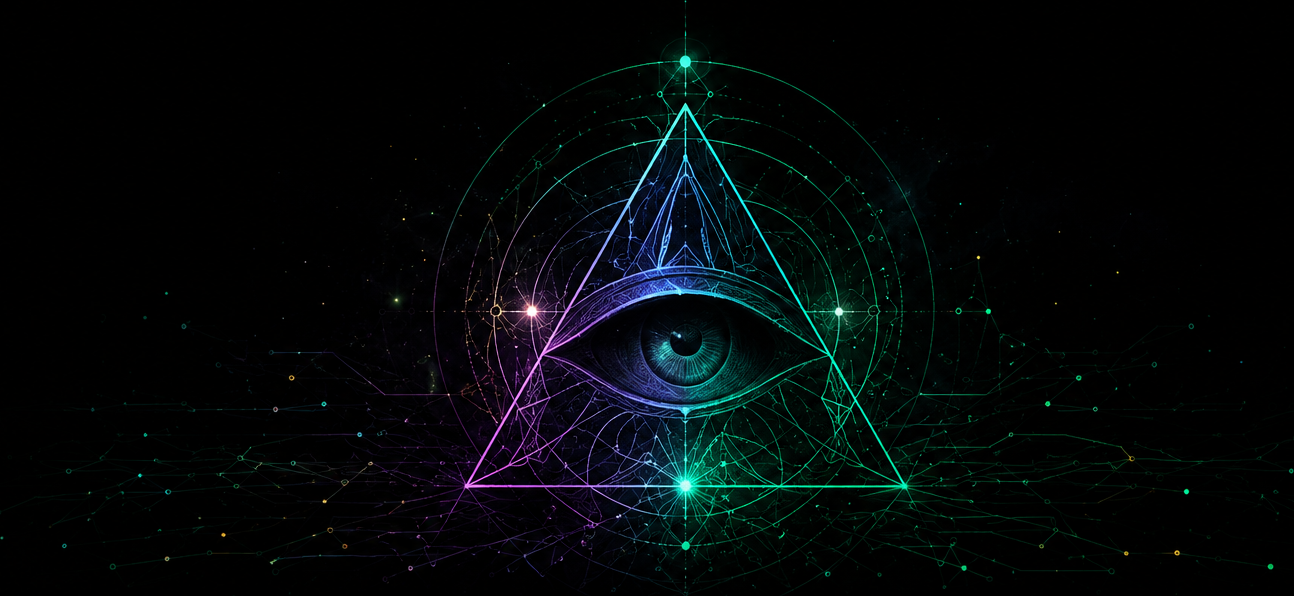
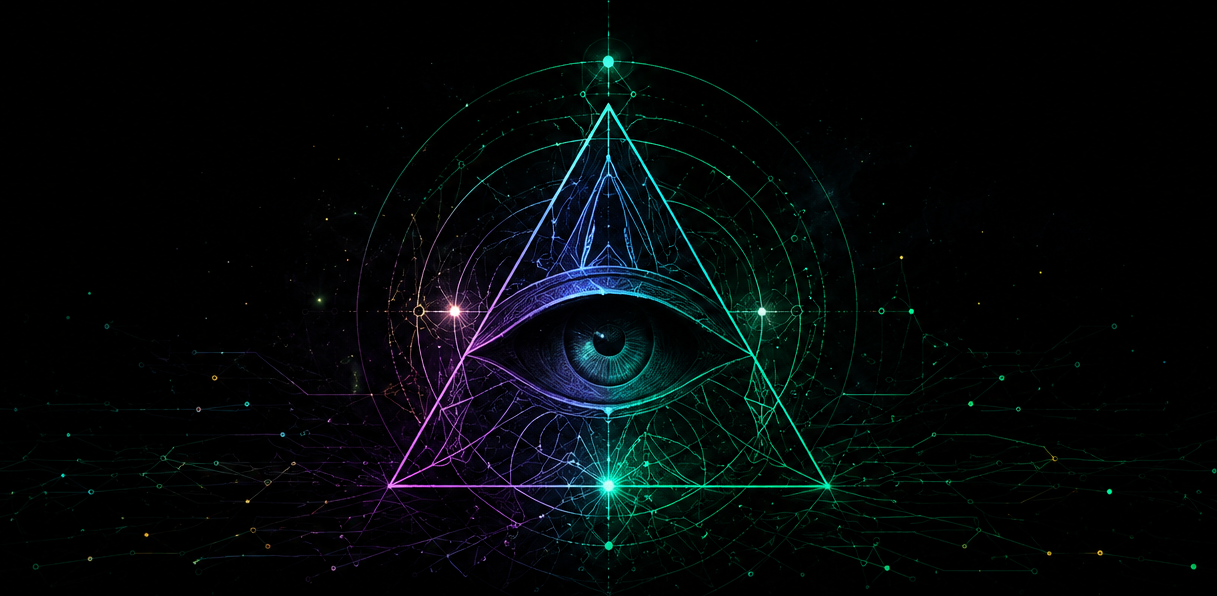
fix mobile

diff --git a/components/home/Hero.tsx b/components/home/Hero.tsx
@@ -2,7 +2,13 @@
 
 import { useEffect, useRef, useState } from 'react';
 import dynamic from 'next/dynamic';
-import { motion, useMotionValue, useReducedMotion, useSpring } from 'framer-motion';
+import {
+  motion,
+  useMotionTemplate,
+  useMotionValue,
+  useReducedMotion,
+  useSpring,
+} from 'framer-motion';
 
 import { HEADLINE, ROLES } from './accent';
 import IdentityRotator from './IdentityRotator';
@@ -12,6 +18,9 @@ import ScrollCue from './ScrollCue';
 const HeroBackground = dynamic(() => import('./HeroBackground'), { ssr: false });
 
 const ROTATE_MS = 4200;
+
+// Temporary toggle — hiding the WebGL particle field to preview the hero without it.
+const SHOW_PARTICLES = false;
 
 export default function Hero({ onExplore }: { onExplore: () => void }) {
   const reduce = useReducedMotion();
@@ -43,6 +52,12 @@ export default function Hero({ onExplore }: { onExplore: () => void }) {
   // fed via a ref so it works even though the canvas is pointer-events-none.
   const pointerRef = useRef({ x: 0, y: 0 });
 
+  // cursor-following spotlight position (percent of the hero), softly sprung
+  const glowX = useSpring(useMotionValue(58), { stiffness: 70, damping: 22, mass: 0.7 });
+  const glowY = useSpring(useMotionValue(50), { stiffness: 70, damping: 22, mass: 0.7 });
+  const glowLeft = useMotionTemplate`${glowX}%`;
+  const glowTop = useMotionTemplate`${glowY}%`;
+
   const handleMouse = (e: React.MouseEvent<HTMLDivElement>) => {
     if (reduce) return;
     const rect = e.currentTarget.getBoundingClientRect();
@@ -50,6 +65,8 @@ export default function Hero({ onExplore }: { onExplore: () => void }) {
     const ny = (e.clientY - rect.top) / rect.height - 0.5;
     pointerRef.current.x = nx;
     pointerRef.current.y = ny;
+    glowX.set((nx + 0.5) * 100);
+    glowY.set((ny + 0.5) * 100);
     mx.set(nx * 24);
     my.set(ny * 24);
     portraitX.set(nx * 16);
@@ -60,73 +77,131 @@ export default function Hero({ onExplore }: { onExplore: () => void }) {
   return (
     <section
       onMouseMove={handleMouse}
-      className="relative flex min-h-[100svh] w-full items-center overflow-hidden"
+      className='relative flex min-h-[100svh] w-full items-start overflow-hidden pt-10 md:items-center'
     >
       {/* Layer 0: base gradient wash (renders instantly, before WebGL) */}
       <div
-        className="pointer-events-none absolute inset-0 transition-[background] duration-1000"
+        className='pointer-events-none absolute inset-0 transition-[background] duration-1000'
         style={{
-          background: `radial-gradient(80% 70% at 72% 42%, ${role.nebula}22, transparent 60%), radial-gradient(60% 60% at 30% 80%, ${role.accent}12, transparent 60%), #050506`,
+          background: `radial-gradient(80% 70% at 72% 42%, ${role.nebula}22, transparent 60%), radial-gradient(60% 60% at 30% 80%, ${role.accent}12, transparent 60%), #000`,
         }}
       />
 
       {/* Layer 1: WebGL particle atmosphere with parallax */}
-      <motion.div
-        className="pointer-events-none absolute inset-0"
-        style={{ x: bgX, y: bgY }}
-      >
-        <HeroBackground colorHex={role.accent} reduced={!!reduce} pointer={pointerRef} />
-      </motion.div>
+      {SHOW_PARTICLES && (
+        <motion.div className='pointer-events-none absolute inset-0' style={{ x: bgX, y: bgY }}>
+          <HeroBackground colorHex={role.accent} reduced={!!reduce} pointer={pointerRef} />
+        </motion.div>
+      )}
 
-      {/* Layer 1.5: the full hero portrait, sitting behind the copy. The whole
-          photo stays visible; its left/right edges are masked and a scrim + bottom
-          fade dissolve it into the page and keep the headline readable. */}
-      <motion.div
-        style={{ x: portraitX, y: portraitY }}
-        initial={{ opacity: 0, scale: 1.03 }}
-        animate={{ opacity: 1, scale: 1 }}
-        transition={{ duration: 1.3, ease: [0.22, 1, 0.36, 1] }}
-        className="pointer-events-none absolute inset-0 z-[1]"
-      >
+      {/* Layer 1.5: the hero portrait. */}
+      <div className='pointer-events-none absolute inset-0 z-[1]'>
+        {/* MOBILE: photo anchored to the bottom of the hero, sized to cover the
+            lower area so it sits mostly behind the skills list; fades up out of
+            black so the headline block above it stays on black. */}
         {/* eslint-disable-next-line @next/next/no-img-element */}
         <img
-          src="/me-hero.webp"
-          alt="Martin Boynton"
-          className="absolute right-0 top-1/2 w-[min(860px,70vw)] max-w-none -translate-y-1/2 lg:right-[2%] lg:-translate-x-[200px]"
+          src='/me-hero.webp'
+          alt='Martin Boynton'
+          className='absolute inset-x-0 bottom-0 h-[70%] w-full object-cover object-[52%_20%] md:hidden'
           style={{
             WebkitMaskImage:
-              'linear-gradient(to right, transparent 0%, #000 22%, #000 82%, transparent 100%)',
+              'linear-gradient(to bottom, transparent 0%, #000 26%, #000 92%, transparent 100%)',
             maskImage:
-              'linear-gradient(to right, transparent 0%, #000 22%, #000 82%, transparent 100%)',
+              'linear-gradient(to bottom, transparent 0%, #000 26%, #000 92%, transparent 100%)',
           }}
         />
-      </motion.div>
 
-      {/* left scrim (keeps the headline readable) + bottom fade into the page */}
+        {/* DESKTOP: anchored inside the SAME centered max-w-[1400px] frame as the
+            content grid, so it keeps a fixed position relative to the identity
+            list on the right at any window width. */}
+        <motion.div
+          style={{ x: portraitX, y: portraitY }}
+          initial={{ opacity: 0, scale: 1.03 }}
+          animate={{ opacity: 1, scale: 1 }}
+          transition={{ duration: 1.3, ease: [0.22, 1, 0.36, 1] }}
+          className='relative mx-auto hidden h-full max-w-[1400px] md:block'
+        >
+          {/* eslint-disable-next-line @next/next/no-img-element */}
+          <img
+            src='/me-hero.webp'
+            alt='Martin Boynton'
+            className='absolute right-[240px] top-1/2 w-[860px] max-w-none -translate-y-1/2'
+            style={{
+              // fade all four edges so the photo dissolves into the background
+              // (intersect a horizontal + vertical gradient — no hard rectangle)
+              WebkitMaskImage:
+                'linear-gradient(to right, transparent 0%, #000 20%, #000 82%, transparent 100%), linear-gradient(to bottom, transparent 0%, #000 12%, #000 84%, transparent 100%)',
+              maskImage:
+                'linear-gradient(to right, transparent 0%, #000 20%, #000 82%, transparent 100%), linear-gradient(to bottom, transparent 0%, #000 12%, #000 84%, transparent 100%)',
+              WebkitMaskComposite: 'source-in',
+              maskComposite: 'intersect',
+            }}
+          />
+        </motion.div>
+      </div>
+
+      {/* DESKTOP left scrim (keeps the headline readable over the photo) */}
       <div
-        className="pointer-events-none absolute inset-0 z-[2]"
+        className='pointer-events-none absolute inset-0 z-[2] hidden md:block'
         style={{
           background:
-            'linear-gradient(to right, #050506 0%, rgba(5,5,6,0.85) 26%, rgba(5,5,6,0.25) 46%, transparent 62%)',
+            'linear-gradient(to right, #000 0%, rgba(0,0,0,0.85) 26%, rgba(0,0,0,0.25) 46%, transparent 62%)',
         }}
       />
-      <div className="pointer-events-none absolute inset-x-0 bottom-0 z-[2] h-40 bg-gradient-to-t from-[#050506] to-transparent" />
+      {/* MOBILE vertical scrim: gentle — just enough to keep the list legible
+          while the photo stays clearly visible behind it. */}
+      <div
+        className='pointer-events-none absolute inset-0 z-[2] md:hidden'
+        style={{
+          background:
+            'linear-gradient(to bottom, rgba(0,0,0,0.3) 0%, rgba(0,0,0,0.6) 42%, rgba(0,0,0,0.8) 70%, rgba(0,0,0,0.72) 100%)',
+        }}
+      />
+      {/* bottom fade into the page */}
+      <div className='pointer-events-none absolute inset-x-0 bottom-0 z-[2] h-40 bg-gradient-to-t from-black to-transparent' />
+
+      {/* Layer 2.5: calm atmosphere — a soft accent spotlight that trails the
+          cursor, plus a one-shot bloom each time the active role changes.
+          Additive (screen) so it only adds light and never muddies the black. */}
+      <div className='pointer-events-none absolute inset-0 z-[3] overflow-hidden mix-blend-screen'>
+        {/* cursor-following spotlight */}
+        <motion.div
+          className='absolute h-[620px] w-[620px] -translate-x-1/2 -translate-y-1/2 rounded-full blur-[110px] transition-[background] duration-1000'
+          style={{
+            left: glowLeft,
+            top: glowTop,
+            background: `radial-gradient(circle, ${role.accent}47, transparent 70%)`,
+          }}
+        />
+        {/* bloom on role change (skipped under reduced motion) */}
+        {!reduce && (
+          <motion.div
+            key={role.id}
+            className='absolute left-[58%] top-1/2 h-[520px] w-[520px] -translate-x-1/2 -translate-y-1/2 rounded-full blur-[100px]'
+            style={{ background: `radial-gradient(circle, ${role.accent}55, transparent 70%)` }}
+            initial={{ scale: 0.55, opacity: 0.6 }}
+            animate={{ scale: 1.7, opacity: 0 }}
+            transition={{ duration: 1.5, ease: 'easeOut' }}
+          />
+        )}
+      </div>
 
       {/* Layer 2: content grid */}
-      <div className="relative z-10 mx-auto grid w-full max-w-[1400px] grid-cols-1 items-center gap-10 px-6 py-28 md:grid-cols-[45fr_55fr] md:px-10 md:py-0">
+      <div className='relative z-10 mx-auto grid w-full max-w-[1400px] grid-cols-1 items-center gap-28 px-6 pb-14 pt-28 md:gap-10 md:grid-cols-[45fr_55fr] md:px-10 md:py-0'>
         {/* LEFT — copy */}
-        <motion.div style={{ x: copyX }} className="max-w-xl">
+        <motion.div style={{ x: copyX }} className='max-w-xl'>
           <motion.p
             initial={{ opacity: 0, y: 16 }}
             animate={{ opacity: 1, y: 0 }}
             transition={{ duration: 0.8, ease: [0.22, 1, 0.36, 1] }}
-            className="mb-6 text-sm uppercase tracking-[0.35em]"
+            className='mb-6 text-sm uppercase tracking-[0.35em]'
             style={{ color: role.accent }}
           >
             Hi, I&#39;m Martin.
           </motion.p>
 
-          <h1 className="font-share-tech text-5xl font-bold leading-[1.05] tracking-tight text-white sm:text-6xl md:text-7xl">
+          <h1 className='font-share-tech text-[2.5rem] font-bold leading-[1.08] tracking-tight text-white sm:text-6xl sm:leading-[1.05] md:text-7xl'>
             {HEADLINE.map((line, i) => (
               <motion.span
                 key={line.word}
@@ -137,12 +212,10 @@ export default function Hero({ onExplore }: { onExplore: () => void }) {
                   delay: 0.15 + i * 0.12,
                   ease: [0.22, 1, 0.36, 1],
                 }}
-                className="block"
+                className='block'
               >
                 {line.pre}
-                <span
-                  className={`bg-gradient-to-r ${line.gradient} bg-clip-text text-transparent`}
-                >
+                <span className={`bg-gradient-to-r ${line.gradient} bg-clip-text text-transparent`}>
                   {line.word}
                 </span>
               </motion.span>
@@ -153,25 +226,26 @@ export default function Hero({ onExplore }: { onExplore: () => void }) {
             initial={{ opacity: 0, y: 16 }}
             animate={{ opacity: 1, y: 0 }}
             transition={{ duration: 0.8, delay: 0.6, ease: [0.22, 1, 0.36, 1] }}
-            className="mt-8 text-base tracking-[0.2em] text-white/50 md:text-lg"
+            className='mt-8 text-base tracking-[0.2em] text-white/50 md:text-lg'
           >
-            Technology <span className="text-white/30">×</span> Wellness{' '}
-            <span className="text-white/30">×</span> Creativity
+            Technology <span className='text-white/30'>×</span> Wellness{' '}
+            <span className='text-white/30'>×</span> Creativity
           </motion.p>
 
           <motion.div
             initial={{ opacity: 0, y: 16 }}
             animate={{ opacity: 1, y: 0 }}
             transition={{ duration: 0.8, delay: 0.75, ease: [0.22, 1, 0.36, 1] }}
+            className='hidden md:block'
           >
             <button
-              type="button"
+              type='button'
               onClick={onExplore}
-              className="group mt-10 inline-flex items-center gap-3 rounded-2xl border border-white/15 bg-white/[0.04] px-7 py-4 text-sm uppercase tracking-[0.25em] text-white backdrop-blur-sm transition-all duration-300 hover:border-white/40 hover:bg-white/[0.08]"
+              className='group mt-10 inline-flex items-center gap-3 rounded-2xl border border-white/15 bg-white/[0.04] px-7 py-4 text-sm uppercase tracking-[0.25em] text-white backdrop-blur-sm transition-all duration-300 hover:border-white/40 hover:bg-white/[0.08]'
               style={{ boxShadow: `0 0 0 0 ${role.accent}` }}
             >
               Explore My Work
-              <span className="transition-transform duration-300 group-hover:translate-y-0.5">
+              <span className='transition-transform duration-300 group-hover:translate-y-0.5'>
                 ↓
               </span>
             </button>
@@ -181,18 +255,18 @@ export default function Hero({ onExplore }: { onExplore: () => void }) {
         {/* RIGHT — identity rotator (the photo is a full layer behind everything).
             Sits at the far right on xl where the masked photo edge is darkest. */}
         <div
-          className="hidden items-center justify-end xl:flex"
+          className='hidden items-center justify-end xl:flex'
           onMouseEnter={() => setPaused(true)}
           onMouseLeave={() => setPaused(false)}
         >
-          <div className="w-[220px]">
+          <div className='w-[220px]'>
             <IdentityRotator active={active} onSelect={setActive} accent={role.accent} />
           </div>
         </div>
 
         {/* identity rotator for smaller screens (below the copy, until xl) */}
         <div
-          className="xl:hidden"
+          className='xl:hidden'
           onMouseEnter={() => setPaused(true)}
           onMouseLeave={() => setPaused(false)}
         >
@@ -201,7 +275,7 @@ export default function Hero({ onExplore }: { onExplore: () => void }) {
       </div>
 
       {/* Scroll cue */}
-      <div className="absolute inset-x-0 bottom-8 z-10 flex justify-center">
+      <div className='absolute inset-x-0 bottom-8 z-10 flex justify-center'>
         <ScrollCue onClick={onExplore} />
       </div>
     </section>

diff --git a/components/home/ContactFooter.tsx b/components/home/ContactFooter.tsx
@@ -7,15 +7,27 @@ import SocialIcons from '@/components/SocialIcons';
 
 export default function ContactFooter() {
   return (
-    <footer className="relative mx-auto w-full max-w-[1200px] overflow-hidden px-6 py-24 md:px-10">
-      {/* sacred-geometry eye, centered behind the content (black bg blends in) */}
+    <footer className="relative mx-auto w-full max-w-[1200px] overflow-hidden px-6 pb-20 pt-4 md:px-10 md:py-24">
+      {/* DESKTOP: sacred-geometry eye centered behind the content (black bg blends in) */}
       {/* eslint-disable-next-line @next/next/no-img-element */}
       <img
         src="/footer-eye.webp"
         alt=""
         aria-hidden
-        className="pointer-events-none absolute left-1/2 top-[38%] -z-0 w-[clamp(340px,44vw,560px)] -translate-x-1/2 -translate-y-1/2 select-none opacity-90 mix-blend-screen"
+        className="pointer-events-none absolute left-1/2 top-[38%] -z-0 hidden w-[clamp(340px,44vw,560px)] -translate-x-1/2 -translate-y-1/2 select-none opacity-90 mix-blend-screen md:block"
       />
+
+      {/* MOBILE: oversized eye above the heading as a separator (black sides
+          bleed off-screen and vanish via screen blend) */}
+      <div className="mb-2 flex justify-center md:hidden">
+        {/* eslint-disable-next-line @next/next/no-img-element */}
+        <img
+          src="/footer-eye.webp"
+          alt=""
+          aria-hidden
+          className="pointer-events-none w-[150vw] max-w-none shrink-0 select-none opacity-90 mix-blend-screen"
+        />
+      </div>
 
       <div className="relative z-10 grid grid-cols-1 gap-12 md:grid-cols-2 md:items-center">
         <Reveal>

diff --git a/components/HomePage.tsx b/components/HomePage.tsx
@@ -19,7 +19,7 @@ export default function HomePage() {
   };
 
   return (
-    <div className="relative w-full overflow-x-hidden bg-[#050506] font-share-tech text-white">
+    <div className="relative w-full overflow-x-hidden bg-black font-share-tech text-white">
       <SiteHeader />
       <Hero onExplore={scrollToContent} />
 
